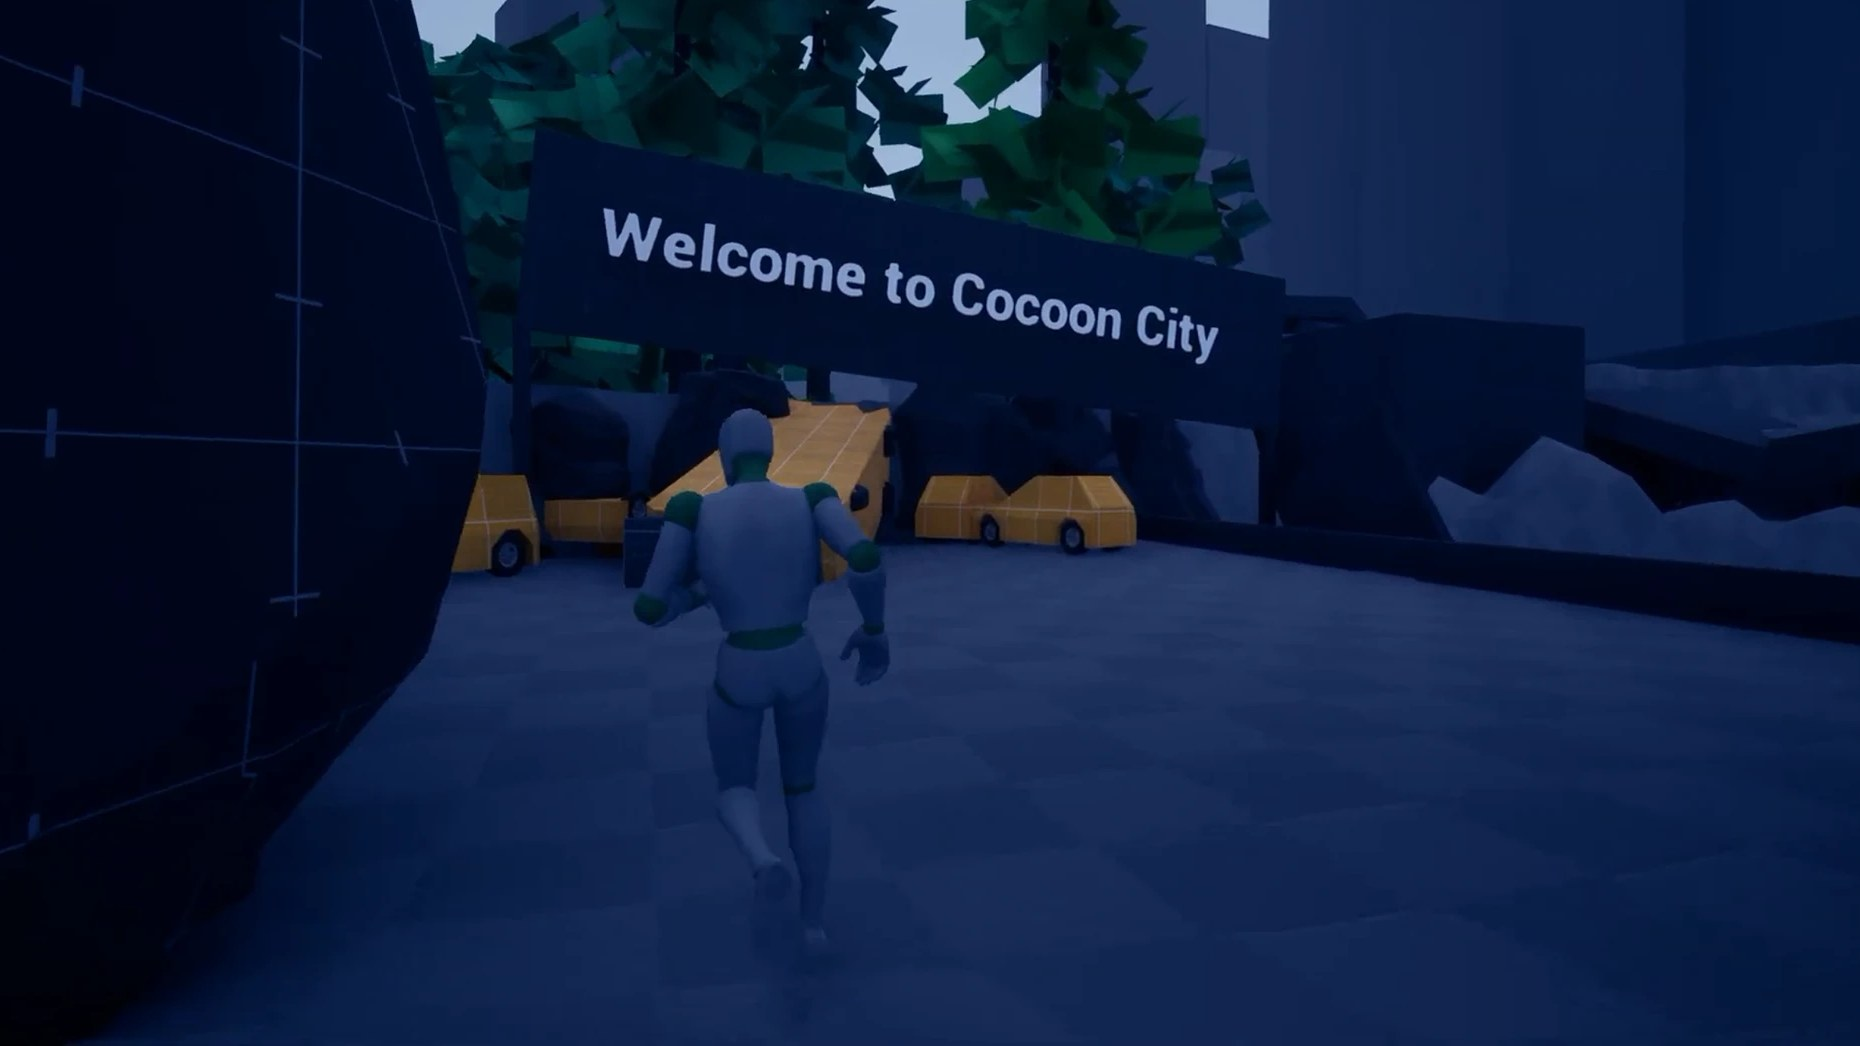
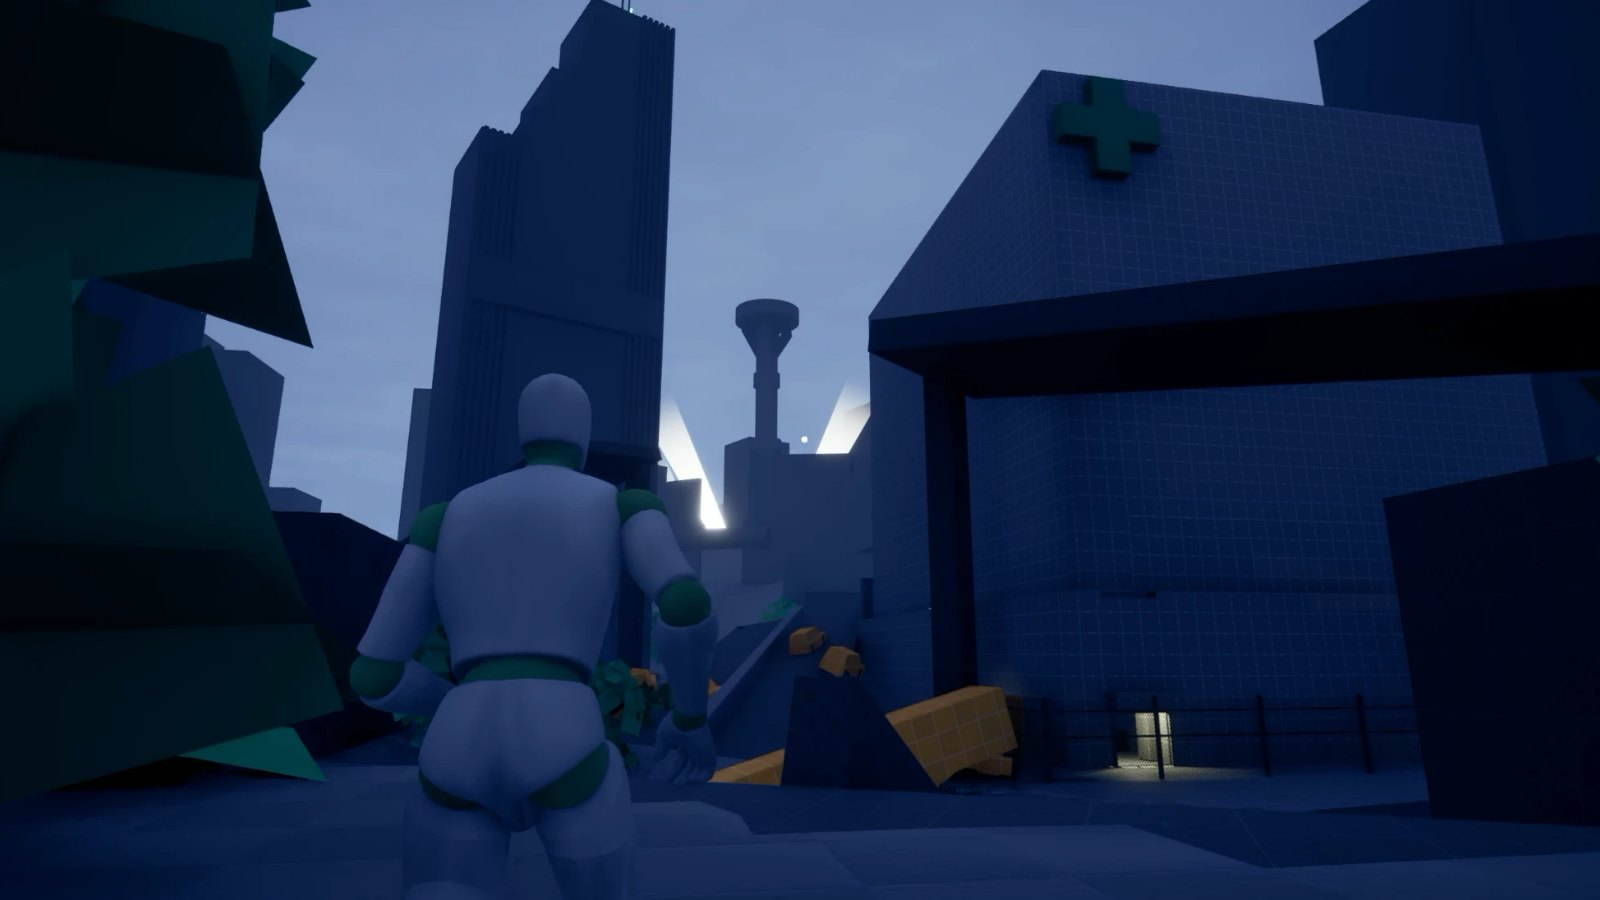
작업 상세 제목 크기 단계, 첫 화면 그림 두 장 교체, 넘김 간격 4.5초
- 작업 제목, 절 이름, 핵심 문장, 항목 제목의 크기와 굵기를 단계별로 구분
- 화이트아웃과 코쿤시티의 첫 화면 그림 교체
- 첫 화면 그림이 넘어가는 간격을 6초에서 4.5초로 줄임

diff --git a/src/site.css b/src/site.css
@@ -212,3 +212,16 @@ iframe.art { border: 0; }
 @media (prefers-reduced-motion: reduce) {
   .hook, .hook.on { transition: none; }
 }
+
+/* 작업 상세의 제목 크기: 작업 제목, 절 이름, 핵심 문장, 항목 제목, 본문(17px) 순서로 단계가 보이게 합니다.
+   크기는 화면이 아니라 글 영역의 폭(cqi)을 따릅니다. */
+.doc h2 { font-size: clamp(32px, 4.5cqi, 48px); line-height: 1.15; letter-spacing: -0.02em; }
+.doc h3 { font-size: clamp(22px, 2.6cqi, 28px); line-height: 1.25; letter-spacing: -0.01em; font-weight: 700; }
+.doc .say { font-size: clamp(20px, 2.3cqi, 24px); line-height: 1.4; font-weight: 700; }
+.doc .lead { font-size: clamp(18px, 1.9cqi, 20px); line-height: 1.6; }
+.doc h4 { font-size: 19px; line-height: 1.4; font-weight: 700; }
+
+/* 절 이름이 글 위로 올라가는 좁은 폭에서는 한 단계 키워 경계가 보이게 합니다. */
+@container doc (max-width: 619px) {
+  .doc h3 { font-size: 24px; }
+}

diff --git a/src/content.js b/src/content.js
@@ -15,7 +15,7 @@ export const profile = {
 };
 
 // 홈에서 훅 이미지 한 장이 보이는 시간(초)입니다.
-export const hookSeconds = 6;
+export const hookSeconds = 4.5;
 
 export const works = [
   {

diff --git a/DESIGN.md b/DESIGN.md
@@ -2,7 +2,7 @@
 >
 > 아래는 캔버스 작업 초기에 쓴 명세 원문입니다. 그 뒤 시안을 고르면서 정해진 다음 내용이 원문보다 우선합니다. 5장(AI 티 방지), 6장(접근성·품질), 7장(준비할 자료)은 그대로 적용합니다.
 >
-> - **홈 구성**: 첫 화면은 스크롤 없는 한 화면입니다. 왼쪽 열 맨 위에 이름 `레벨 디자이너 박세준`을 작업 목록보다 크게(30px) 두고, 그 아래 작업 4개와 `소개`, 맨 아래 이메일과 저작권 줄이 있습니다(2026-11-22, Jun: `연락` 항목 삭제). 왼쪽 열은 면 없이 글자와 얇은 선만 둡니다. 첫 화면에는 쇼릴 영상 대신 작업별 훅 장면 이미지가 놓이고, 작업을 연 화면의 영상과 같은 크기와 여백(오른쪽 영역 폭의 90%, 화면 높이의 72% 이내)을 씁니다(2026-11-22, Jun: 첫 화면 이미지가 오른쪽 끝까지 차 있는 것과 이름이 가운데 아래에 있는 것이 이상하다). 이미지는 6초씩 넘어가고, 보이고 있는 작업의 줄에 진행선이 표시되며, 이미지를 누르면 그 작업이 열립니다. 작업을 열면 플레이 영상이 같은 자리에 놓이고, 짧은 설명이 왼쪽 열에 쌓입니다. 왼쪽 열은 화면에 붙어 있고 페이지 전체가 스크롤됩니다. 폭이 1024px보다 좁거나 가로세로 비가 3:2보다 작은 화면에서는 이미지나 영상(폭의 90%), 이름, 목록, 설명, 자세히 보기, 연락처 순서로 쌓습니다. 4.1의 세로형 구성과 쇼릴 영상은 쓰지 않습니다. 7장의 쇼릴 영상 대신 작업별 훅 이미지를 준비합니다.
+> - **홈 구성**: 첫 화면은 스크롤 없는 한 화면입니다. 왼쪽 열 맨 위에 이름 `레벨 디자이너 박세준`을 작업 목록보다 크게(30px) 두고, 그 아래 작업 4개와 `소개`, 맨 아래 이메일과 저작권 줄이 있습니다(2026-11-22, Jun: `연락` 항목 삭제). 왼쪽 열은 면 없이 글자와 얇은 선만 둡니다. 첫 화면에는 쇼릴 영상 대신 작업별 훅 장면 이미지가 놓이고, 작업을 연 화면의 영상과 같은 크기와 여백(오른쪽 영역 폭의 90%, 화면 높이의 72% 이내)을 씁니다(2026-11-22, Jun: 첫 화면 이미지가 오른쪽 끝까지 차 있는 것과 이름이 가운데 아래에 있는 것이 이상하다). 이미지는 4.5초씩 넘어가고, 보이고 있는 작업의 줄에 진행선이 표시되며, 이미지를 누르면 그 작업이 열립니다. 작업을 열면 플레이 영상이 같은 자리에 놓이고, 짧은 설명이 왼쪽 열에 쌓입니다. 왼쪽 열은 화면에 붙어 있고 페이지 전체가 스크롤됩니다. 폭이 1024px보다 좁거나 가로세로 비가 3:2보다 작은 화면에서는 이미지나 영상(폭의 90%), 이름, 목록, 설명, 자세히 보기, 연락처 순서로 쌓습니다. 4.1의 세로형 구성과 쇼릴 영상은 쓰지 않습니다. 7장의 쇼릴 영상 대신 작업별 훅 이미지를 준비합니다.
 > - **뺀 것**: `작업 보기` 버튼, `하는 일 / 엔진 / 작업` 요약 줄, 스케치 섹션.
 > - **디자인 시스템**: Astryx 컴포넌트(`@astryxdesign/core`)를 쓰고, `src/theme.js`의 테마가 3장의 토큰을 대신합니다. 영상과 이미지 자리의 모서리는 직각으로 둡니다.
 > - **색**: 차가운 검정(2026-11-22, Jun: 청록 바탕이 칙칙하다). 페이지와 영상 자리 `#0B0E12`, 자세히 보기의 이미지 자리 `#151A20`, 배지 `#1E242C`, 진한 선 `#3B434E`, 글자 `#ECE7DF`, 보조 글자 `#BDBCB2`, 장식 `#C68D5D`, 호버 `#E6BD8B`. 강조색 `#CE1A1E`는 훅 이미지 진행선과 `레벨 기획서 보기` 버튼에만 씁니다. 팔레트 A/B/C 전환은 만들지 않습니다.
